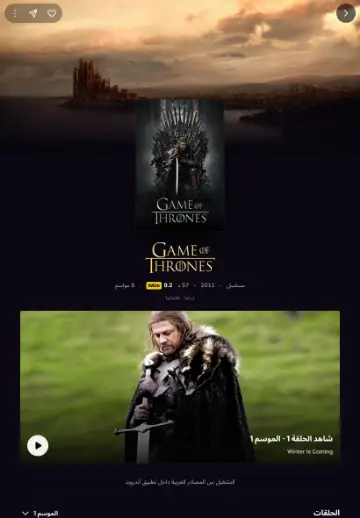
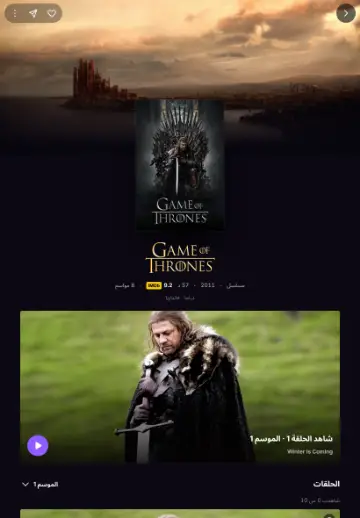
fix(cinema): أزرار التشغيل في الأنماط بلون السينما الذي اختاره المستخدم، ولقطات الإعدادات محدّثة
- «الملصق» و«الشريط العريض» و«العرض الأول»: زر التشغيل ودائرته بـ var(--accent) بدل الأبيض الثابت
  (قياس من الإعدادات الحقيقية: ذهبي #c9a227 ← rgb(201,162,39)، وأحمر السينما ← rgb(193,18,31))
- المسار كاملًا من الواجهة: الإعدادات ← المظهر ← بلاطة السينما (غير معطلة) ← أربعة أنماط ← الحفظ ← صفحة العمل بالنمط
- لقطات المعاينة أعيد توليدها: بلا سطر المصادر وبألوان الأزرار الجديدة

Claude-Session: https://claude.ai/code/session_01Q5Ts76Zkf2hVSqJTqGHuK7

Changed region(s): [[0.0306, 0.9266, 0.9472, 1.0], [0.0611, 0.834, 0.1528, 0.8958]]

diff --git a/apps/web/v35/cinema.css b/apps/web/v35/cinema.css
@@ -2173,10 +2173,10 @@ html[data-motion='off'] .v35 #home > .header .icon-btn .icon { transition: none;
 .v35 .cn-detail:not([data-style='current']) .cn-detail-body > .cn-facts { font-size: 12.5px; color: var(--text-2); }
 .v35 .cn-detail:not([data-style='current']) .cn-genre-line { letter-spacing: 0; font-size: 12.5px; }
 .v35 .cn-look-credits dt { letter-spacing: 0; }
-/* زر التشغيل في الملصق والشريط العريض: أبيض حاد كضوء الشاشة */
+/* زر التشغيل في الملصق والشريط العريض: بلون القسم الذي اختاره المستخدم (لا أبيض ثابت)، حاد الزوايا */
 .v35 .cn-detail:is([data-style='poster'], [data-style='marquee']) #cinemaPlay {
-  background: #f4f2f0;
-  color: #0b0909;
+  background: var(--accent);
+  color: var(--on-accent, #fff);
   border-radius: var(--look-r);
   height: 52px;
   font-weight: 800;
@@ -2184,7 +2184,7 @@ html[data-motion='off'] .v35 #home > .header .icon-btn .icon { transition: none;
 
 /* العرض الأول: الخلفية ظاهرة والملصق على حافتها السفلى فقط */
 .v35 .cn-detail[data-style='premiere'] .cn-detail-body { margin-top: calc(-0.42 * min(46vw, 200px) * 1.5); }
-.v35 .cn-look-still .cn-still-go { background: #f4f2f0; color: #0b0909; width: 48px; height: 48px; }
+.v35 .cn-look-still .cn-still-go { width: 48px; height: 48px; } /* بلون القسم (var(--accent)) كبقية أزرار التشغيل */
 .v35 .cn-look-still.cn-btn--play { aspect-ratio: 2.1 / 1; }
 /* حلقات العرض الأول: لقطة عريضة كاملة العرض والعنوان تحتها (كبطاقات الأفلام القصيرة) */
 .v35 .cn-detail[data-style='premiere'] .cn-eps { gap: 18px; }

diff --git a/apps/web/sw.js b/apps/web/sw.js
@@ -29,7 +29,7 @@
  * يحسب البصمة من بايتات ملفات `SHELL` ويفشل إن خالفت المكتوب هنا، فتعديلُ
  * ملف قشرةٍ بلا تحديثها يكسر البناء — وهو بالضبط وقت إبطال الكاش.
  */
[2 lines of base64/hex data omitted]
 
 const VERSION = `vantara-shell-${SHELL_DIGEST.slice(0, 16)}`;
 
